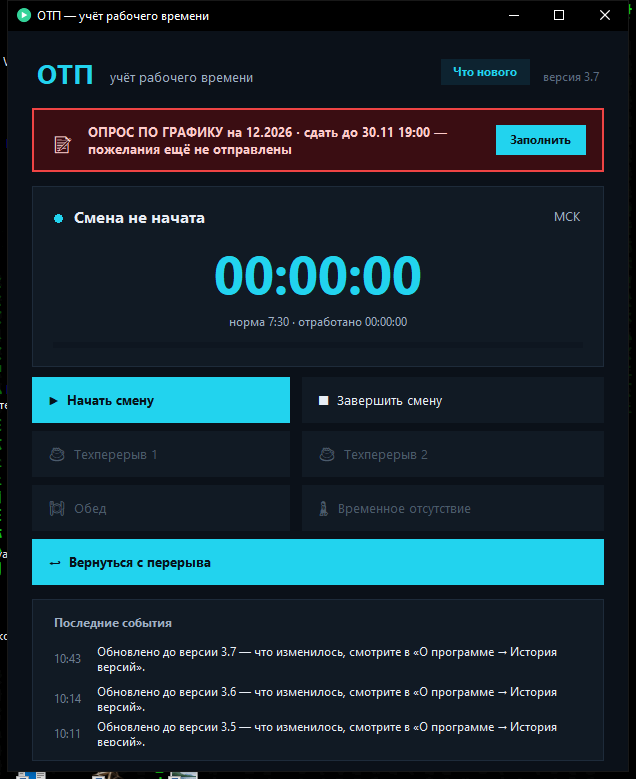
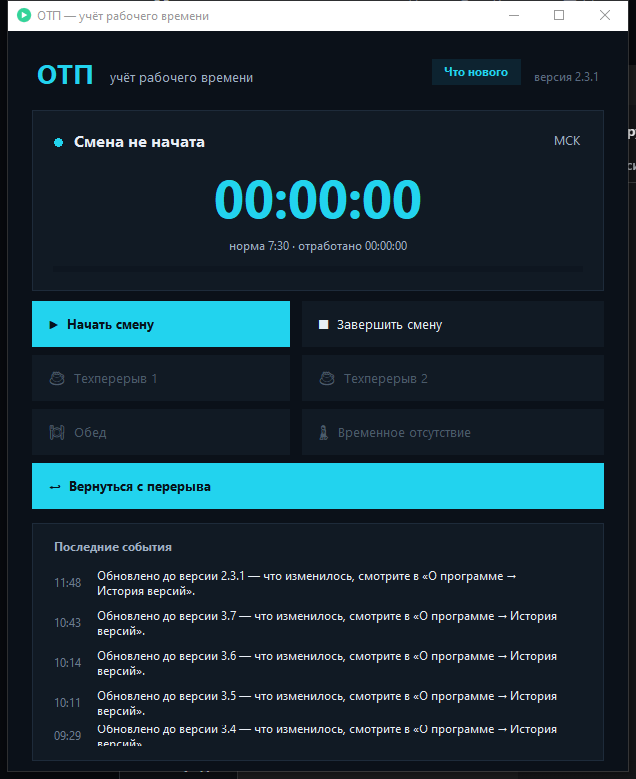
Tray 2.3.1: live timer (state recomputed every second from cached events), test

diff --git a/scripts/_patch_live_timer.py b/scripts/_patch_live_timer.py
@@ -1,0 +1,75 @@
+# -*- coding: utf-8 -*-
+"""Патч 2.3.1: счётчик в окне идёт каждую секунду.
+
+Было: self.state пересчитывался только при запросе к серверу (раз в минуту),
+поэтому в окне «замирали» секунды, а статус отставал.
+Стало: события кэшируются, состояние пересчитывается локально каждую секунду
+(без обращений к сети), сеть — только для новых событий.
+"""
+import os
+import sys
+
+ROOT = os.path.dirname(os.path.dirname(os.path.abspath(__file__)))
+PATH = os.path.join(ROOT, "app", "tray", "otp_tray.py")
+src = open(PATH, encoding="utf-8").read()
+
+# 1) refresh кэширует события и пересчитывает состояние
+old_refresh = '''    def refresh(self):
+        try:
+            self.state = compute_state(self.api.events_today())
+        except Exception as e:
+            log("нет связи при обновлении: %r" % (e,))
+            self.state = dict(self.state, kind="offline", label="Нет связи")
+        self.update_icon()
+        return self.state'''
+new_refresh = '''    def refresh(self):
+        try:
+            self.events = self.api.events_today()
+            self.state = compute_state(self.events or [])
+        except Exception as e:
+            log("нет связи при обновлении: %r" % (e,))
+            self.state = dict(self.state, kind="offline", label="Нет связи")
+        self.update_icon()
+        return self.state
+
+    def tick_state(self):
+        """Пересчёт времени по локальным часам — раз в секунду, без сети."""
+        try:
+            if self.events:
+                fresh = compute_state(self.events)
+                # смена могла завершиться по локальным часам — значок тоже обновляем
+                if fresh.get("kind") != self.state.get("kind"):
+                    self.state = fresh
+                    self.update_icon()
+                else:
+                    self.state = fresh
+        except Exception as e:
+            log("пересчёт состояния: %r" % (e,))'''
+assert old_refresh in src, "refresh"
+src = src.replace(old_refresh, new_refresh, 1)
+
+# 2) поток пересчёта
+old_loop = '''    def countdown_loop(self):'''
+new_loop = '''    def state_loop(self):
+        """Держит время в окне живым: пересчёт каждую секунду."""
+        while self._alive:
+            time.sleep(1)
+            self.tick_state()
+
+    def countdown_loop(self):'''
+assert old_loop in src, "countdown_loop"
+src = src.replace(old_loop, new_loop, 1)
+
+# 3) запуск потока рядом с остальными
+src = src.replace('''        threading.Thread(target=self.poll_loop, daemon=True).start()''',
+'''        threading.Thread(target=self.poll_loop, daemon=True).start()
+        threading.Thread(target=self.state_loop, daemon=True).start()''', 1)
+
+# 4) начальное значение кэша
+src = src.replace('''        self._alive = True''', '''        self._alive = True
+        self.events = []''', 1)
+
+# 5) в окне тик раз в 500 мс уже есть; секунды пойдут из свежего state
+open(PATH, "w", encoding="utf-8", newline="").write(src)
+print("патч 2.3.1 применён")
+sys.exit(0)

diff --git a/app/tray/otp_tray.py b/app/tray/otp_tray.py
@@ -28,7 +28,7 @@ from datetime import datetime, timedelta, timezone
 from pathlib import Path
 
 APP_NAME = "OtpTray"
-VERSION = "2.3.0"
+VERSION = "2.3.1"
 try:
     from changelog import CHANGELOG
 except Exception:      # запуск из другого каталога — истории просто не будет
@@ -766,6 +766,7 @@ class App:
         self.icon = None
         self.lock = threading.Lock()
         self._alive = True
+        self.events = []
 
     # --- значок
     def make_icon(self, kind: str):
@@ -1289,12 +1290,33 @@ class App:
     # --- опрос и отсчёт
     def refresh(self):
         try:
-            self.state = compute_state(self.api.events_today())
+            self.events = self.api.events_today()
+            self.state = compute_state(self.events or [])
         except Exception as e:
             log("нет связи при обновлении: %r" % (e,))
             self.state = dict(self.state, kind="offline", label="Нет связи")
         self.update_icon()
         return self.state
+
+    def tick_state(self):
+        """Пересчёт времени по локальным часам — раз в секунду, без сети."""
+        try:
+            if self.events:
+                fresh = compute_state(self.events)
+                # смена могла завершиться по локальным часам — значок тоже обновляем
+                if fresh.get("kind") != self.state.get("kind"):
+                    self.state = fresh
+                    self.update_icon()
+                else:
+                    self.state = fresh
+        except Exception as e:
+            log("пересчёт состояния: %r" % (e,))
+
+    def state_loop(self):
+        """Держит время в окне живым: пересчёт каждую секунду."""
+        while self._alive:
+            time.sleep(1)
+            self.tick_state()
 
     def countdown_loop(self):
         while self._alive:
@@ -1391,6 +1413,7 @@ class App:
         # проверка новых данных на странице (график, бонусы, награды)
         threading.Thread(target=self.content_loop, daemon=True).start()
         threading.Thread(target=self.poll_loop, daemon=True).start()
+        threading.Thread(target=self.state_loop, daemon=True).start()
         from pystray import Icon
         IconClass = Icon  # обычная иконка: пystray сам зовёт пункт по умолчанию
         self.icon = IconClass(APP_NAME, self.make_icon(self.state["kind"]),

diff --git a/scripts/test_live_timer.py b/scripts/test_live_timer.py
@@ -1,0 +1,37 @@
+# -*- coding: utf-8 -*-
+"""Проверка, что счётчик времени идёт сам (без запросов к серверу).
+
+Берём события «смена началась 2 часа назад» и считаем состояние дважды
+с паузой: секунды обязаны вырасти.
+"""
+import os
+import sys
+import time
+from datetime import datetime, timedelta
+
+ROOT = os.path.dirname(os.path.dirname(os.path.abspath(__file__)))
+sys.path.insert(0, os.path.join(ROOT, "app", "tray"))
+
+if hasattr(sys.stdout, "reconfigure"):
+    sys.stdout.reconfigure(encoding="utf-8", errors="replace")
+
+import otp_tray  # noqa: E402
+
+
+def main():
+    now = datetime.now(otp_tray.TZ)
+    events = [{"type": "shift_start", "at": (now - timedelta(hours=2)).isoformat()}]
+    a = otp_tray.compute_state(events)
+    time.sleep(2.2)
+    b = otp_tray.compute_state(events)
+    delta = (b.get("sec") or 0) - (a.get("sec") or 0)
+    print("секунды:", a.get("sec"), "→", b.get("sec"), "| прирост:", delta)
+    if delta >= 2:
+        print("ok: время идёт без обращения к серверу")
+        return 0
+    print("ОШИБКА: время не растёт")
+    return 1
+
+
+if __name__ == "__main__":
+    sys.exit(main())

diff --git a/app/tray/changelog.py b/app/tray/changelog.py
@@ -2,6 +2,16 @@
 # Сгенерировано scripts/make_changelog.py из docs/CHANGELOG.json — не править вручную.
 CHANGELOG = [
   {
+    "version": "2.3.1",
+    "date": "27.11.2026",
+    "title": "Секунды идут",
+    "items": [
+      "Исправлено: в главном окне замирал счётчик — время пересчитывалось только при запросе к серверу.",
+      "Теперь состояние и время пересчитываются локально каждую секунду, сеть нужна только для новых событий.",
+      "Значок в трее тоже переключается сразу, когда смена завершается по времени."
+    ]
+  },
+  {
     "version": "2.3.0",
     "date": "27.11.2026",
     "title": "Опрос заметно выделен",
